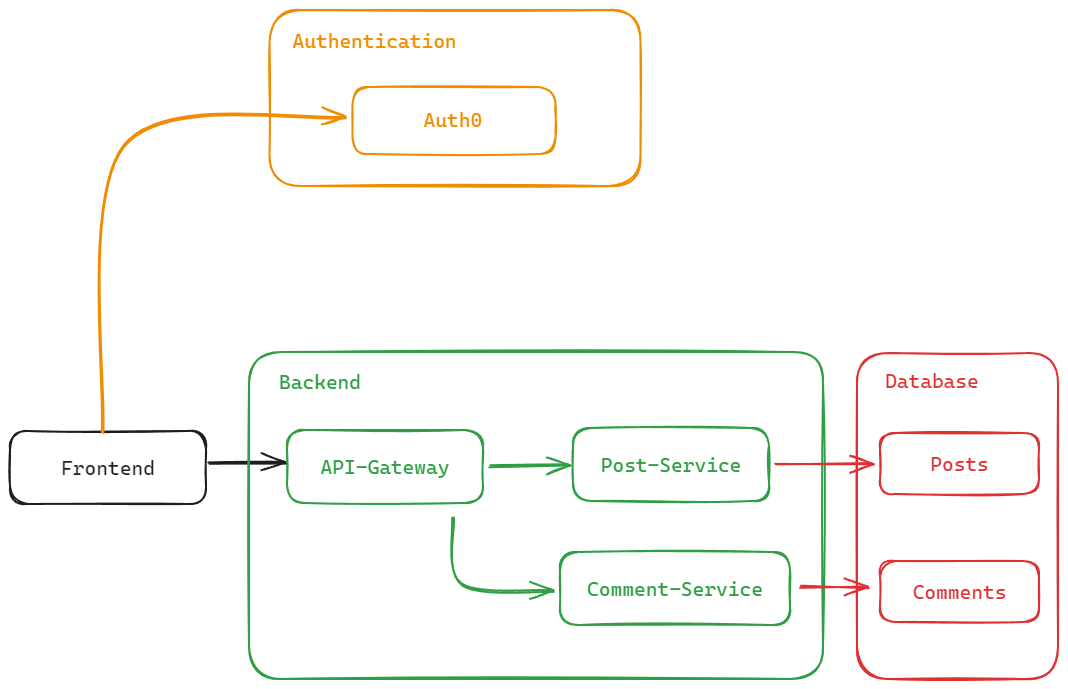
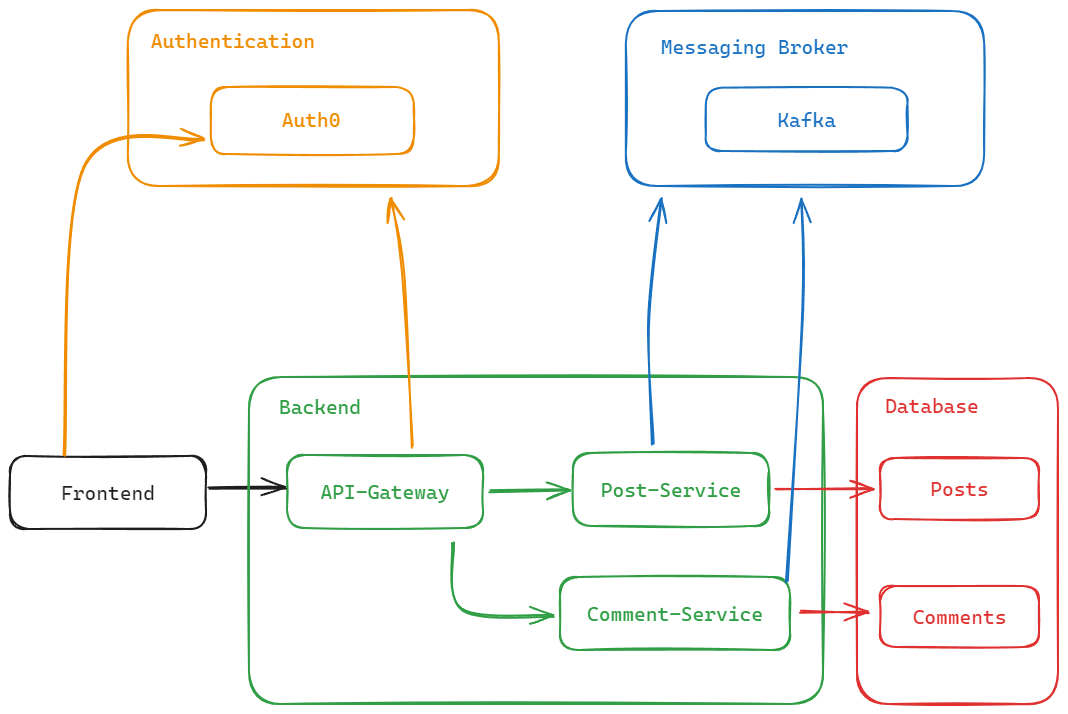
Added messaging topic + scenario & flow

diff --git a/Writerside/topics/Messaging.md b/Writerside/topics/Messaging.md
@@ -1,0 +1,26 @@
+# Messaging
+
+Messaging is a way for backend services to communicate with each other. There are many patterns to choose from (some of which I mention in my research docucment called `Research Messaging`), but in this case I will be using the `Publish/Subscribe` pattern. This pattern is used when you want to broadcast messages to multiple consumers. This is useful when you have multiple services that need to know about a certain event.
+
+## Scenario
+
+The feature I used to implement messaging is one that keeps track of the comment count on a certain post. In my application, the main page will display cards of posts. Each card will display some extra information about the post other than the standard author, title and some of the content. These extra pieces of information can be the amount of comments on the post, the amount of likes, the amount of shares, etc.
+
+I chose to go for the comment count, although it could've been any of the other options. The reason I want to keep track of this extra information in the posts database in the first place is because I believe it would help with performance. If I were to calculate the amount of comments on a post every time the main page is loaded, it would be a waste of resources. Instead, I can keep track of this information in the database and update it whenever a comment is added or removed. This would be better since the main page is loaded more often than comments are added or removed.
+
+## Flow
+
+The flow that happens when a comment is added or removed is as follows:
+
+1. The API-Gateway receives a request to add or remove a comment.
+2. The API-Gateway redirects that request to the Comment-Service.
+3. The Comment-Service adds or removes the comment from the database.
+4. The Comment-Service sends a message to the messaging broker on the topic "comment-created".
+5. The Post-Service receives the message from the messaging broker.
+6. The Post-Service updates the comment count in the database.
+
+In the future, were I to need to add more service that need to run some logic when a comment is added or removed, I can easily add another service that listens to the messaging broker to the same topic.
+
+The flow described above can be seen in the following diagram:
+
+![commentcount-flow-diagram.png](commentcount-flow-diagram.png)
